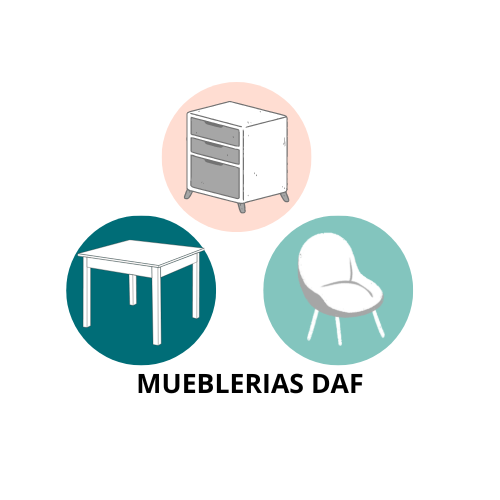
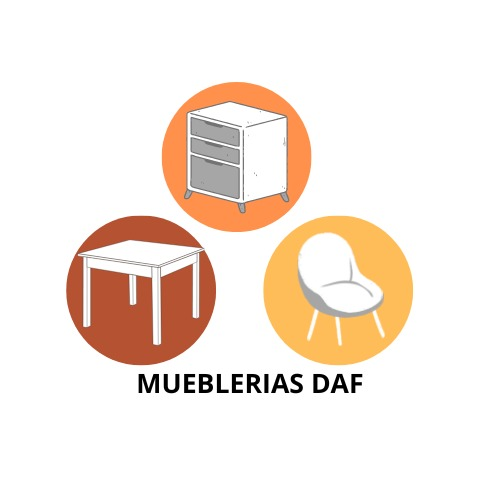
Actualizacion de colores de interfaces y BD

Changed region(s): [[0.12, 0.15, 0.63, 0.75], [0.51, 0.42, 0.84, 0.75]]

diff --git a/src/components/Sidebar.jsx b/src/components/Sidebar.jsx
@@ -4,7 +4,7 @@ import user from '../assets/user.png'
 
 export const Sidebar = () => {
   const rosa={
-    background:'#FFDDD2'
+    background:'#ffde59'
   }
   const letras={
     color:'#000'
@@ -80,7 +80,7 @@ export const Sidebar = () => {
             </Link>
           </li>
           <li className="nav-item">
-            <Link to="/" className="nav-link">
+            <Link to="/Categorias" className="nav-link">
               <i style={letras} className="fas fa-book-open"></i>
               <p style={letras}>
                 Categorias

diff --git a/src/components/Home.jsx b/src/components/Home.jsx
@@ -2,14 +2,14 @@ import React from 'react'
 import DAF from '../assets/DAF.png'
 
 const Home = () => {
-    const  rosa={
-        background:'#FFDDD2',
-    }
-    const azul={
-        background:'#83C5BE'
-    }
+  const rosa={
+    background:'#ffde59'
+  }
+const azul={
+    background:'#8e582c'
+}
     const azul_f={
-        background:'#387283'
+        background:'#8e582c'
     }
     const blanco={
         background:'#FFFF'

diff --git a/src/components/Categorias.jsx b/src/components/Categorias.jsx
@@ -2,12 +2,12 @@ import React from 'react'
 
 const Categorias = () => {
   
-      const  rosa={
-        background:'#FFDDD2',
-       }
-      const azul={
-        background:'#83C5BE'
-       }
+  const rosa={
+    background:'#ffde59'
+  }
+  const azul={
+      background:'#8e582c'
+  }
        const icon={
         color:'#83C5BE'
        }

diff --git a/src/components/Informes.jsx b/src/components/Informes.jsx
@@ -2,11 +2,11 @@ import React from 'react'
 
 
 const Informes = () => {
-    const rosa = {
-        background: '#FFDDD2',
-    }
-    const azul = {
-        background: '#83C5BE'
+    const rosa={
+        background:'#ffde59'
+      }
+    const azul={
+        background:'#8e582c'
     }
     const icon = {
         color: '#83C5BE'

diff --git a/src/components/Productos_geren.jsx b/src/components/Productos_geren.jsx
@@ -2,12 +2,12 @@ import React from 'react'
 
 function Productos_geren() {
 
-  const  rosa={
-    background:'#FFDDD2',
+  const rosa={
+    background:'#ffde59'
   }
-  const azul={
-    background:'#83C5BE'
-  }
+const azul={
+    background:'#8e582c'
+}
   return (
     <>
       <div className="content-wrapper">

diff --git a/src/components/Productos.jsx b/src/components/Productos.jsx
@@ -1,11 +1,11 @@
 import React from 'react'
 
 const Productos = () =>{
-    const  rosa={
-        background:'#FFDDD2',
-    }
+    const rosa={
+        background:'#ffde59'
+      }
     const azul={
-        background:'#83C5BE'
+        background:'#8e582c'
     }
     const icon={
         color:'#83C5BE'

diff --git a/src/components/Usuarios.jsx b/src/components/Usuarios.jsx
@@ -1,11 +1,11 @@
 import React from 'react'
 
 const Usuarios = () => {
-    const  rosa={
-        background:'#FFDDD2',
-    }
+    const rosa={
+        background:'#ffde59'
+      }
     const azul={
-        background:'#83C5BE'
+        background:'#8e582c'
     }
     const icon={
         color:'#83C5BE'

diff --git a/src/components/Entrada_salida_geren.jsx b/src/components/Entrada_salida_geren.jsx
@@ -1,11 +1,11 @@
 import React from 'react'
 
 export const Entrada_salida_geren = () => {
-    const  rosa={
-        background:'#FFDDD2',
-    }
+    const rosa={
+        background:'#ffde59'
+      }
     const azul={
-        background:'#83C5BE'
+        background:'#8e582c'
     }
   return (
     <>

diff --git a/src/components/Categorias_geren.jsx b/src/components/Categorias_geren.jsx
@@ -1,11 +1,11 @@
 import React from 'react'
 
 export const Categorias_geren = () => {
-    const  rosa={
-        background:'#FFDDD2',
-    }
+    const rosa={
+        background:'#ffde59'
+      }
     const azul={
-        background:'#83C5BE'
+        background:'#8e582c'
     }
   return (
     <>

diff --git a/src/components/Content.jsx b/src/components/Content.jsx
@@ -1,11 +1,11 @@
 import React from 'react'
 
 export const Content = () => {
-    const  rosa={
-        background:'#FFDDD2',
-    }
+    const rosa={
+        background:'#ffde59'
+      }
     const azul={
-        background:'#83C5BE'
+        background:'#8e582c'
     }
     
     const icon={

diff --git a/src/components/Navbar.jsx b/src/components/Navbar.jsx
@@ -1,9 +1,9 @@
 import React from 'react'
-import DAF from '../assets/Mueblerias_DAF.png'
+import DAF from '../assets/DAF.png'
 
 export const Navbar =() => {
   const azulF={
-    background:'#006D77'
+    background:'#8e582c'
   }
   return (
     <>
